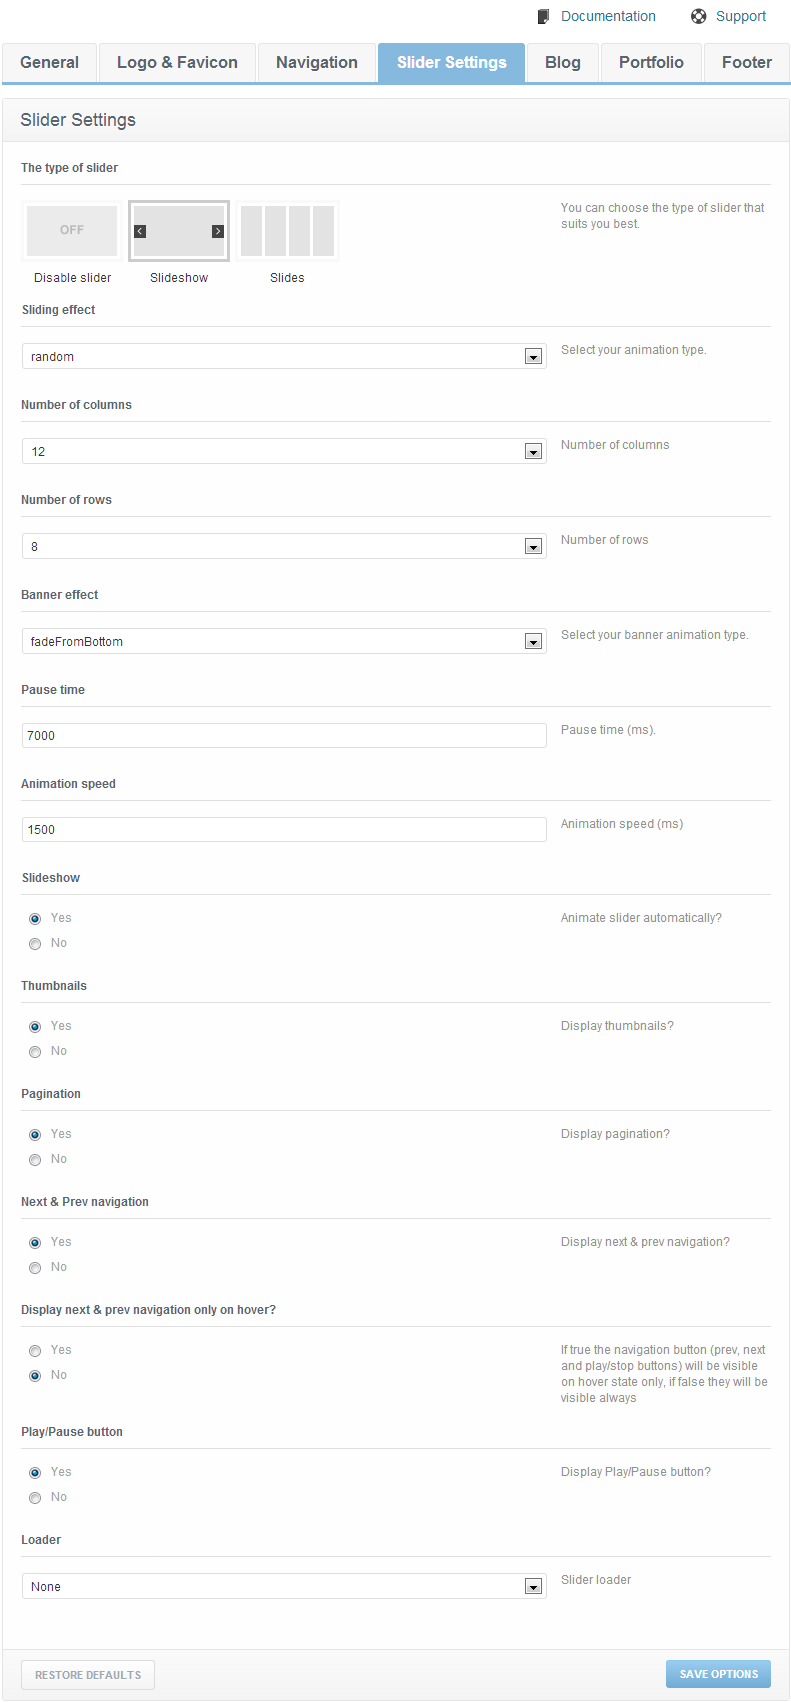
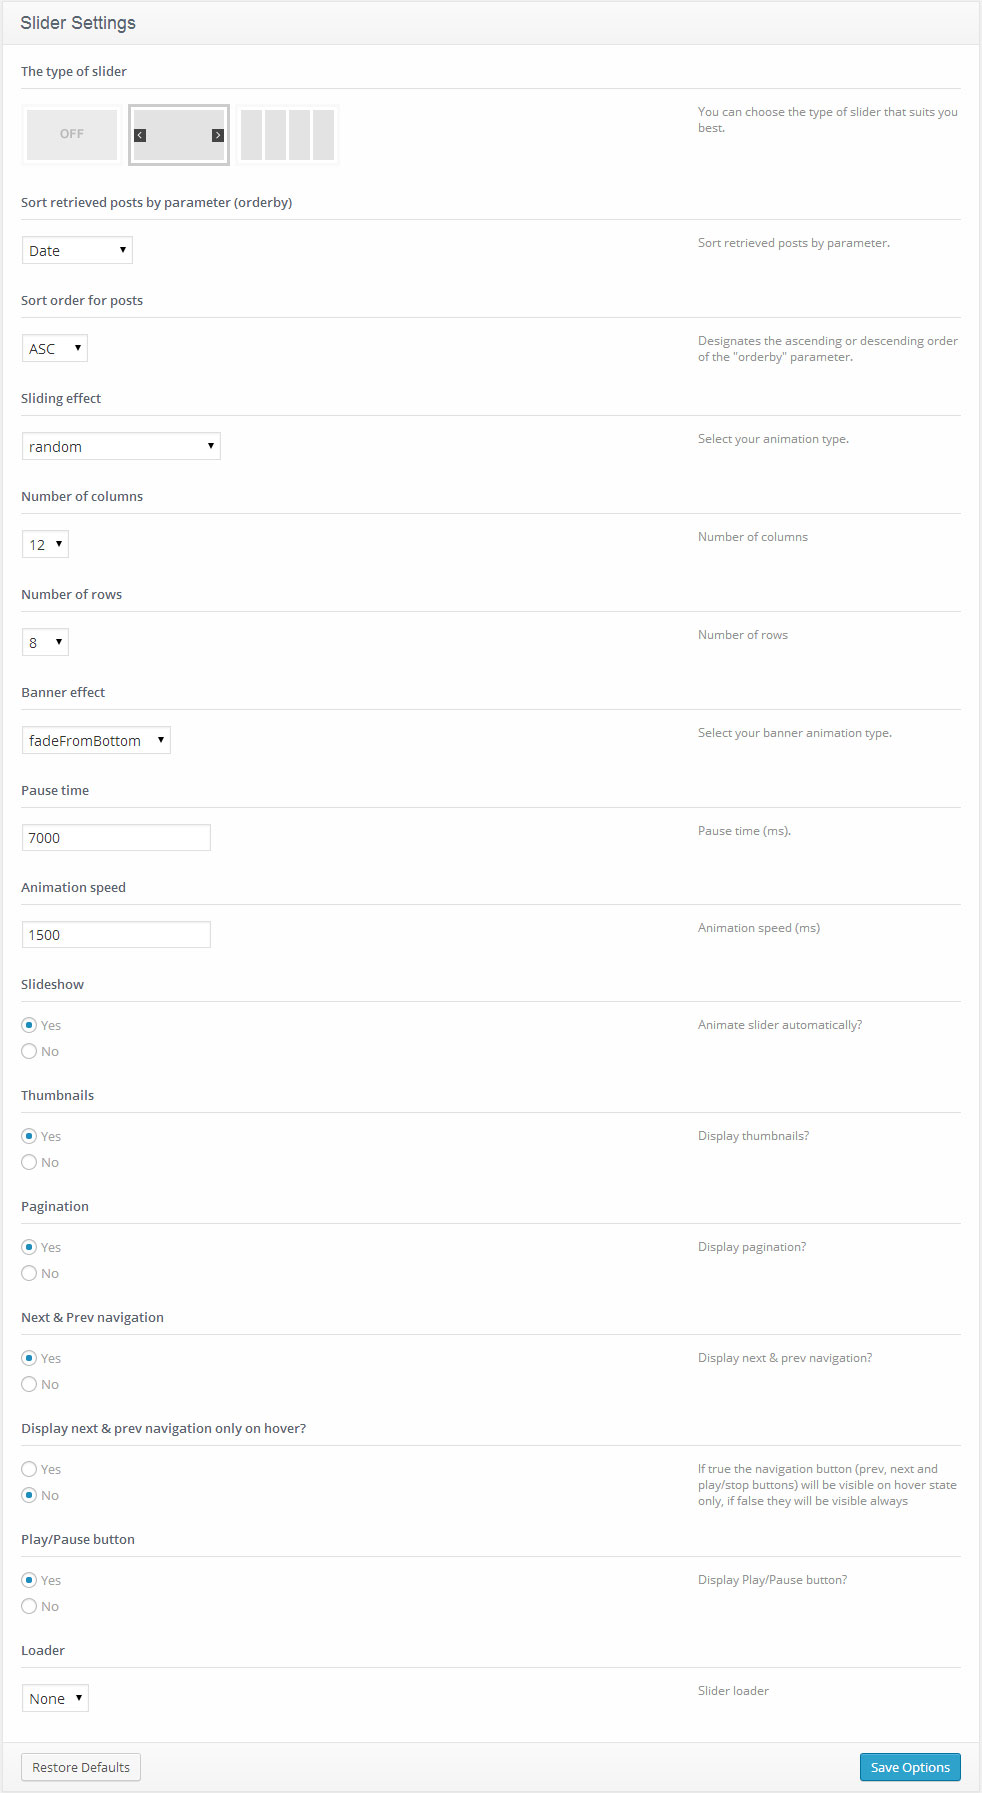
UPD: v3.1.3

diff --git a/index_en.html b/index_en.html
@@ -192,7 +192,6 @@
                           <li><a href="#footer_option">Footer</a></li>  
                           <li><a href="#footer_logo_option">Footer Logo</a></li>                  
                           <li><a href="#contacts_option">Contacts</a></li>                  
-                          <li><a href="#social_option">Social</a></li>                     
                          </ul> 
                       </dd>
                      </dl> 
@@ -1043,10 +1042,17 @@
         <div class="span5"><p><span class="label">Description:</span> compact display of different posts in mini-slider view.</p></div>
       </div>
       <br>
-      <h5>Carousel</h5>
+      <h5>Carousel(Elasti)</h5>
       <figure class="img-paraloid"><img src="img/wordpress/shortcode_car.jpg" alt=""></figure>
       <div class="row-fluid">
         <div class="span7"><pre class="prettyprint">[carousel num="5" type="blog" thumb="true" thumb_width="120" thumb_height="50" date="yes" author="yes" min_items="3"]</pre></div>
+        <div class="span5"><p><span class="label">Description:</span> displays the posts in carousel view, has various additional options.</p></div>
+      </div>
+      <br>
+      <h5>Carousel(OWL)</h5>
+      <figure class="img-paraloid"><img src="img/wordpress/shortcode_car_owl.jpg" alt=""></figure>
+      <div class="row-fluid">
+        <div class="span7"><pre class="prettyprint">[carousel_owl title="Title" post_type="blog" posts_count="5" visibility_items="3" thumb="yes" thumb_width="200" thumb_height="200" date="yes" author="yes" comments="no" excerpt_count="10" display_navs="yes" display_pagination="yes"]</pre></div>
         <div class="span5"><p><span class="label">Description:</span> displays the posts in carousel view, has various additional options.</p></div>
       </div>
       <br>
@@ -1123,6 +1129,16 @@
 [span4] Your content... [/span4]
 [/row]</pre></div>
         <div class="span6"><p>Multiple Columns shortcodes are used to simplify content forming by inserting the most common grid variants.</p></div>
+      </div>
+      <br>
+            <h5>Custom classes</h5>
+      <div class="row-fluid">
+        <div class="span6"><pre class="prettyprint">
+[row custom_class="custom-row"]
+[span8 custom_class="custom-span8"] content [/span8]
+[span4 custom_class="custom-span4"] content [/span4]
+[/row]</pre></div>
+        <div class="span6"><p>You can also add custom classes to Columns category shortcodes. This expands customization options for specific blocks. </p></div>
       </div>
       <br>
     </article>
@@ -1220,6 +1236,18 @@
       <div class="row-fluid">
         <div class="span6"><pre class="prettyprint">[check_list] List here ... [/check_list] </pre></div>
         <div class="span6"><p><span class="label">Description:</span> a set of shortcodes used to display various lists stylizations. Each shortcode implements its own marker for the list items.</p></div>
+      </div> 
+      <br>
+      <h5>Extra Wrap</h5>
+      <div class="row-fluid">
+        <div class="span6"><pre class="prettyprint">[extra_wrap][/extra_wrap]</pre></div>
+        <div class="span6"><p><span class="label">Description:</span> Shortcode for wrapping content with block with overflow:hidden.</div>
+      </div>
+      <br>
+      <h5>Content Box</h5>
+      <div class="row-fluid">
+        <div class="span6"><pre class="prettyprint">[content_box custom_class="custom_content_box"][/content_box]</pre></div>
+        <div class="span6"><p><span class="label">Description:</span> Shortcode for wrapping content with block with pseudo classes :before and :after for displaying full width block.</div>
       </div>
     </article>
     <article id="other_shortcodes">
@@ -1337,7 +1365,6 @@
 [/chp_pricing_column]
 
 [/chp_pricing_table]
-
         </pre>
         <p><span class="label">Description:</span> used to display Pricing tables.</p>
        <br>
@@ -1348,14 +1375,14 @@
       <li>Add or edit a page or post.</li>
       <li>
         <span>Click in your content where you want the player to appear, then hit <strong style="color:#666">Add Media</strong> above the content editor.</span>
-        <figure class="img-paraloid pull-left"><img src="img/audio_video_1.jpg" height="35" width="107" alt=""></figure>
+        <figure class="img-paraloid"><img src="img/audio_video_1.jpg" height="35" width="107" alt=""></figure>
         <div class="clear"></div>
       </li>
       <li>Click <strong>Upload Files</strong>.</li>
       <li>Upload an audio or video file.</li>
       <li>
         <span>Make sure the file you uploaded is selected, then under <em>Attachment Display Settings</em>, set <em>Embed or Link</em> to &quot;Embed Media Player.&quot;</span>
-        <figure class="img-paraloid pull-left"><img src="img/audio_video_2.jpg" height="92" width="268" alt=""></figure>
+        <figure class="img-paraloid"><img src="img/audio_video_2.jpg" height="92" width="268" alt=""></figure>
         <div class="clear"></div>
       </li>
       <li>Click <strong>Insert into page</strong>.</li>
@@ -1490,19 +1517,6 @@
       </div>
       <br />
       <div class="row"> 
-        <figure class="img-paraloid pull-left"><img src="img/wordpress/widget_twitter.jpg" alt=""></figure>
-        <div class="clearfix">
-	        <h5>Cherry - Twitter</h5>
-	        <p>This widget allows you to display the latest tweets from your twitter account. The widget contains the following options:</p>
-	        <ul>
-	          <li><i class="icon-angle-right"></i> <strong>Title:</strong> - Widget Title</li>
-	          <li><i class="icon-angle-right"></i> <strong>Twitter Name:</strong> - your twitter name</li>
-	          <li><i class="icon-angle-right"></i> <strong>Tweets number:</strong> - the number of tweets to show.</li>
-	        </ul>
-        </div>
-      </div>
-      <br />
-      <div class="row"> 
         <figure class="img-paraloid pull-left"><img src="img/wordpress/widget_flickr.jpg" alt=""></figure>
         <div class="clearfix">
 	        <h5>Cherry - Flickr</h5>
@@ -1559,6 +1573,62 @@
 	        </ul>
         </div>
       </div>
+      <br />
+      <div class="row"> 
+        <figure class="img-paraloid pull-left"><img src="img/wordpress/widget_cherry_banner.jpg" alt=""></figure>
+        <div class="clearfix">
+          <h5>Cherry - Banner</h5>
+          <p>Widget is used to display banner. It contains the following options:</p>
+          <ul>
+            <li><i class="icon-angle-right"></i> <strong>Title (optional):</strong> - Widget Title</li>
+            <li><i class="icon-angle-right"></i> <strong>Banner description:</strong> - Widget Banner description</li>
+            <li><i class="icon-angle-right"></i> <strong>Image URL:</strong> - Background source image</li>
+            <li><i class="icon-angle-right"></i> <strong>Fill image:</strong> - Option for switching between two banner display options: resizing image to make it fit banner dimensions as a background or putting image above banner content</li>
+            <li><i class="icon-angle-right"></i> <strong>Link URL: </strong> - link URL</li>
+            <li><i class="icon-angle-right"></i> <strong>Custom CSS class: </strong> - widget custom class</li>
+          </ul>
+        </div>
+      </div>
+      <br />
+      <div class="row"> 
+        <figure class="img-paraloid pull-left"><img src="img/wordpress/widget_facebook_like_box.jpg" alt=""></figure>
+        <div class="clearfix">
+          <h5>Cherry - Facebook Like Box Widget</h5>
+          <p>This widget is used to display Facbook pages. It contains the following options:</p>
+          <ul>
+            <li><i class="icon-angle-right"></i> <strong>Title (optional):</strong> - Widget Title</li>
+            <li><i class="icon-angle-right"></i> <strong>Facebook page url:</strong> - url your <a href="https://www.facebook.com/help/174987089221178/">Facebook Page</a></li>
+            <li><i class="icon-angle-right"></i> <strong>Width: & Height:</strong> - Widget size</li>
+            <li><i class="icon-angle-right"></i> <strong>Color Scheme:</strong> - Color Scheme(Light/Dark)</li>
+            <li><i class="icon-angle-right"></i> <strong>Display header:</strong> - enable/disable header</li>
+            <li><i class="icon-angle-right"></i> <strong>Display faces:</strong> - enable/disable faces</li>
+            <li><i class="icon-angle-right"></i> <strong>Display stream:</strong> - enable/disable stream</li>
+            <li><i class="icon-angle-right"></i> <strong>Display border:</strong> - enable/disable border</li>
+            <li><i class="icon-angle-right"></i> <strong>Custom CSS class: </strong> - widget custom class</li>
+          </ul>
+        </div>
+      </div>
+      <br />
+      <div class="row"> 
+        <figure class="img-paraloid pull-left"><img src="img/wordpress/widget_cherry_instagram.jpg" alt=""></figure>
+        <div class="clearfix">
+          <h5>Cherry - Instagram</h5>
+          <p>Widget is used to display recent Instagram posts. It contains the following options:</p>
+          <ul>
+            <li><i class="icon-angle-right"></i> <strong>Widget Title: (optional):</strong> - Widget Title</li>
+            <li><i class="icon-angle-right"></i> <strong>User Name: (required field)</strong> - Instagram User Name(Widget will work only for users who have full rights opened in Instagram account.)</li>
+            <li><i class="icon-angle-right"></i> <strong>Number of displayed images: </strong> - Number of displayed images(Max value: 20 images.)</li>
+            <li><i class="icon-angle-right"></i> <strong>Image dimensions:</strong> - the size of the displayed image(Large/Thumbnail)</li>
+            <li><i class="icon-angle-right"></i> <strong>Show image description:</strong> - enable/disable image description</li>
+            <li><i class="icon-angle-right"></i> <strong>Show comments number:</strong> - enable/disable comments number</li>
+            <li><i class="icon-angle-right"></i> <strong>Show likes number:</strong> - enable/disable likes number</li>
+            <li><i class="icon-angle-right"></i> <strong>Show image publication date:</strong> - enable/disable image publication date</li>
+            <li><i class="icon-angle-right"></i> <strong>Show Image URL:</strong> - enable/disable Image URL</li>
+            <li><i class="icon-angle-right"></i> <strong>User account button text: </strong> - text profile link Instagram</li>
+            <li><i class="icon-angle-right"></i> <strong>Custom CSS class: </strong> - widget custom class</li>
+          </ul>
+        </div>
+      </div>
     </article>
   </section>  
 <!-- Plugins and Custom Widgets end -->
@@ -1567,6 +1637,7 @@
 
     <h2><i class="icon-cogs"></i> Cherry Options</h2>
     <p>The following theme contains the Settings option. These settings allow you to change the theme’s color palette, order of items, turn items on/off  and do lots of other things. In order to use these settings, please go to <strong>Appearance &rarr; Cherry Options</strong>.</p>
+
     <article id="general_option"> 
       <h4>General</h4>
       <div class="row"> 
@@ -1574,8 +1645,10 @@
       <div class="clearfix">
       <ul>
         <li><i class="icon-angle-right"></i> <strong>Body styling</strong> - you can select the body color and the background pattern.</li>
-        <li><i class="icon-angle-right"></i> <strong>Header background color</strong> - Header background color.</li>
+        <li><i class="icon-angle-right"></i> <strong>Layout Style: </strong> - you can select layout for Your site(wide/boxes style)</li>
+        <li><i class="icon-angle-right"></i> <strong>Header styling:</strong> - Header background image and fill color.</li>
         <li><i class="icon-angle-right"></i> <strong>Buttons and links color</strong> - Buttons and links color.</li>
+        <li><i class="icon-angle-right"></i> <strong>Buttons and links hover color</strong> - Buttons and links hover color.</li>
         <li><i class="icon-angle-right"></i> <strong>Body Text</strong> - You can choose your preferred font for body text. The following options are available for editing the fonts:
           <ol style="margin-bottom:0; padding-left:20px; overflow:hidden;">
             <li><em>Font size</em></li>
@@ -1601,11 +1674,12 @@
        
         <li><i class="icon-angle-right"></i> <strong>Display search box?</strong> - show/hide the search bar in the header.</li>
         <li><i class="icon-angle-right"></i> <strong>Display breadcrumbs?</strong> - show/hide the breadcrumbs in the pages.</li>
-        <li><i class="icon-angle-right"></i> <strong>Custom CSS</strong> - if you need to add some CSS rules, but you don't want to mess with the main css file, you can use this field. Just insert your new css rules.</li>
+        <li><i class="icon-angle-right"></i> <strong>Custom CSS</strong> - if you need to add some CSS rules, but you don't want to mess with the main CSS file, you can use this field. Just insert your new css rules.</li>
       </ul>
       </div>
       </div>
     </article>
+
     <article id="logo_option">
       <h4>Logo &amp; Favicon</h4> 
       <div class="row"> 
@@ -1631,6 +1705,7 @@
       </div>
       </div>
     </article>
+
     <article id="navigation_option">
       <h4>Navigation</h4> 
       <div class="row"> 
@@ -1651,13 +1726,15 @@
         <li><i class="icon-angle-right"></i> <strong>Delay</strong> - delay in milliseconds that defines when the menu hides</li>
         <li><i class="icon-angle-right"></i> <strong>Fade-in animation</strong> - enable/disable the fade-in animation</li>
         <li><i class="icon-angle-right"></i> <strong>Slide-down animation</strong> - enable/disable the slide animation</li>
-        <li><i class="icon-angle-right"></i> <strong>Speed</strong> - the speed of the submenu expanding</li>
-        <li><i class="icon-angle-right"></i> <strong>Arrows markup</strong> - enable/disable  arrows for the menu items that have submenus</li>
+        <li><i class="icon-angle-right"></i> <strong>Speed</strong> - the speed of the sub-menu expanding</li>
+        <li><i class="icon-angle-right"></i> <strong>Arrows markup</strong> - enable/disable  arrows for the menu items that have sub-menus</li>
         <li><i class="icon-angle-right"></i> <strong>Mobile menu label</strong> - This text is visible in mobile select menu.</li>
+        <li><i class="icon-angle-right"></i> <strong>Use stickUp menu</strong> - Enable this option if you want to use stickUp menu.</li>
       </ul>
       </div>
       </div>
     </article>
+
     <article id="slider_option">
       <h4>Slider</h4>
       <p>Slider height can be defined in <b>"wp-content/themes/theme###/slider.php"</b>. Edit "height" value in $slider_default_params array.</p>
@@ -1673,6 +1750,9 @@
         <div class="clearfix">
         <ul>
           <li><i class="icon-angle-right"></i> <strong>Sliding effect</strong> - slider transition effect</li>
+          <li><i class="icon-angle-right"></i> <strong>Sort by parameter</strong> - sort retrieved posts by parameter (order by)</li>
+          <li><i class="icon-angle-right"></i> <strong>Sort order</strong> - sort order for posts</li>
+          <li><i class="icon-angle-right"></i> <strong>Sliding effect</strong> - select your animation type.</li>
           <li><i class="icon-angle-right"></i> <strong>Number of columns</strong> - number of columns</li>
           <li><i class="icon-angle-right"></i> <strong>Number of rows</strong> - number of rows</li>
           <li><i class="icon-angle-right"></i> <strong>Banner effect</strong> - select your banner animation type</li>
@@ -1694,6 +1774,8 @@
       <div class="clearfix">
       <ul>
         <li><i class="icon-angle-right"></i> <strong>Slides to display</strong> - Select the slides that you want to be displayed on the slider. If no slide is selected, all slides will be displayed.</li>
+        <li><i class="icon-angle-right"></i> <strong>Sort by parameter</strong> - sort retrieved posts by parameter (order by)</li>
+      <li><i class="icon-angle-right"></i> <strong>Sort order</strong> - sort order for posts</li>
         <li><i class="icon-angle-right"></i> <strong>Slideshow</strong> - Animate slider automatically?</li>
         <li><i class="icon-angle-right"></i> <strong>Pause on mouseover</strong> - The auto play will pause when you mouse over the slider.</li>
         <li><i class="icon-angle-right"></i> <strong>Pause time</strong> - pause time (ms).</li>
@@ -1705,6 +1787,7 @@
       </div>
       </div>
     </article>
+
     <article id="blog_option">
       <h4>Blog</h4>
       <div class="row"> 
@@ -1713,11 +1796,13 @@
       <ul>
         <li><i class="icon-angle-right"></i> <strong>Blog Title</strong> - your Blog Title used on the Blog page</li>
         <li><i class="icon-angle-right"></i> <strong>Related Posts Title</strong> - your title used on Single Post page for related posts</li>
-        <li><i class="icon-angle-right"></i> <strong>Sidebar position</strong> - you can select the position for the sidebar (right or left)</li>
+        <li><i class="icon-angle-right"></i> <strong>Blog layout</strong> - choose blog layout</li>
         <li><i class="icon-angle-right"></i> <strong>Blog image size</strong> - the image size (Normal size or Large size) for the Blog page</li>
         <li><i class="icon-angle-right"></i> <strong>Single post image size</strong> - the image size (Normal size or Large size) for the single post page</li>
-        <li><i class="icon-angle-right"></i> <strong>Enable Meta for blog posts?</strong> - display meta for posts</li>
+        <li><i class="icon-angle-right"></i> <strong>Display share button in single post?</strong> - display share button in single post</li>
+        <li><i class="icon-angle-right"></i> <strong>Should images be uploaded on page scroll?</strong> - you can enable images load only as you scroll down the page. Otherwise images will load all at once.</li>
         <li><i class="icon-angle-right"></i> <strong>Enable excerpt for blog posts?</strong> - display excerpt for posts</li>
+        <li><i class="icon-angle-right"></i> <strong>Button text for blog posts.</strong> - button text for blog posts</li>
         <li><i class="icon-angle-right"></i> <strong>View meta of the blog</strong> - select the meta block type which will be displayed on the blog and post pages</li>
         <li><i class="icon-angle-right"></i> <strong>Post publication date</strong> - Should the post publication date be displayed?</li>
         <li><i class="icon-angle-right"></i> <strong>Author of the post</strong> - Display the author of the post?</li>
@@ -1732,6 +1817,7 @@
       </div>
       </div>
     </article>
+
     <article id="portfolio_option">
       <h4>Portfolio</h4>
       <div class="row"> 
@@ -1751,6 +1837,7 @@
       </div>
       </div>
     </article>
+
     <article id="footer_option">
       <h4>Footer</h4>
       <div class="row"> 
@@ -1775,11 +1862,10 @@
       </ul>
       </div>
       </div>
-    </article>
-
-    <p class="alert">The sections 'footer logo,' 'contacts' and 'social' below are optional. Some themes may not include them. </p>
+    </article>    
 
     <article id="footer_logo_option">
+      <p class="alert">The sections 'footer logo,' 'contacts' and 'social' below are optional. Some themes may not include them. </p>
       <h4>Footer Logo</h4>
       <div class="row"> 
       <figure class="img-paraloid pull-left" style="width:40%;"><a href="img/wordpress/theme_options_footer_logo.jpg" class="pretty_image" data-gal="prettyPhoto"><img src="img/wordpress/theme_options_footer_logo.jpg" alt=""><i class="icon-search"></i></a></figure>
@@ -1798,20 +1884,6 @@
         <li><i class="icon-angle-right"></i> <strong>City/Locality</strong> - city/location.</li>
         <li><i class="icon-angle-right"></i> <strong>Zipcode</strong> - zipcode.</li>
         <li><i class="icon-angle-right"></i> <strong>Phone number</strong> - phone number.</li>
-      </ul>
-      </div>
-    </article>
-    
-    <article id="social_option">
-      <h4>Social</h4>
-      <div class="row"> 
-      <figure class="img-paraloid pull-left" style="width:40%;"><a href="img/wordpress/theme_options_social.jpg" class="pretty_image" data-gal="prettyPhoto"><img src="img/wordpress/theme_options_social.jpg" alt=""><i class="icon-search"></i></a></figure>
-      <ul>
-        <li><i class="icon-angle-right"></i> <strong>Facebook URL</strong> - Facebook URL.</li>
-        <li><i class="icon-angle-right"></i> <strong>Google+ URL</strong> - Google+ URL.</li>
-        <li><i class="icon-angle-right"></i> <strong>RSS URL</strong> - RSS URL.</li>
-        <li><i class="icon-angle-right"></i> <strong>Pinterest URL</strong> - Pinterest URL.</li>
-        <li><i class="icon-angle-right"></i> <strong>Linkedin URL</strong> - Linkedin URL.</li>
       </ul>
       </div>
     </article>
